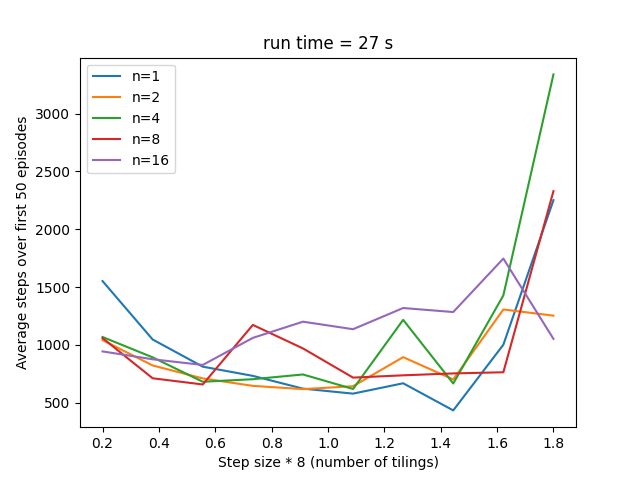
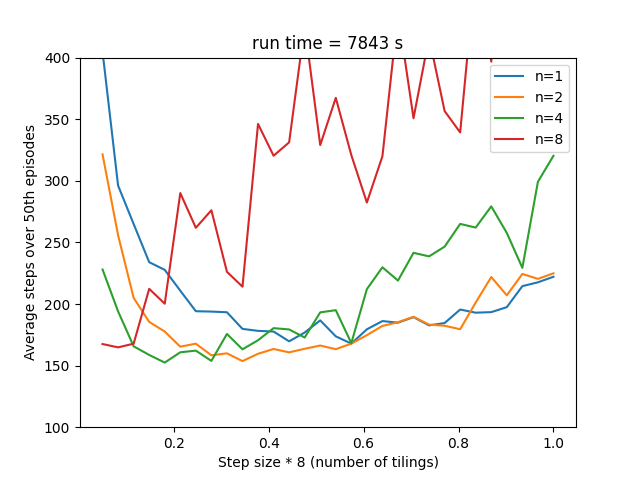
n-step Sarsa with tiling

diff --git a/Part II/CH10/Mountian_Car_Sarsa.py b/Part II/CH10/Mountian_Car_Sarsa.py
@@ -56,6 +56,7 @@ class MountainCar:
     def reset(self):
         """Reset/Set class parameters"""
         self.weight = np.zeros(self.max_size)
+        self.iht = IHT(self.max_size)
 
     def start_new_episode(self):
         """Set class ready for a new episode"""
@@ -153,8 +154,8 @@ class MountainCar:
             div = n + 1
             state_pos = [self.pos] * div
             state_vel = [self.vel] * div
-            actions = [0] * (n + 1)
-            rewards = [0] * (n + 1)
+            actions = [0] * div
+            rewards = [0] * div
             while True:
                 if t < terminal:
                     count += 1
@@ -241,10 +242,10 @@ class MountainCar:
 
     def figure_10_3(self):
         start_time = time.time()
-        self.max_episodes = 500
-        repeat = 100
-        step_sizes = [0.3, 0.5]
-        steps = [1, 8]
+        self.max_episodes = 300
+        repeat = 10
+        step_sizes = [0.5, 0.2, 0.05]
+        steps = [1, 8, 8]
         step_number = np.zeros((len(step_sizes), self.max_episodes))
         for _ in trange(repeat):
             for i, step_size in enumerate(step_sizes):
@@ -268,25 +269,26 @@ class MountainCar:
 
     def figure_10_4(self):
         start_time = time.time()
-        self.max_episodes = 5
-        repeat = 1
-        steps = np.power(2, np.arange(0, 5))
-        time_steps = np.linspace(0.2, 1.8, 10)
+        self.max_episodes = 50
+        repeat = 20
+        steps = np.power(2, np.arange(0, 4))
+        time_steps = np.linspace(0.05, 1, 30)
         runs = np.zeros((len(steps), len(time_steps)))
         plt.figure()
-        for _ in range(repeat):
+        for _ in trange(repeat):
             for i in range(len(steps)):
                 step = steps[i]
-                for j in trange(len(time_steps)):
+                for j in range(len(time_steps)):
                     self.step_size = time_steps[j] / self.n_tilings
-                    runs[i, j] += np.mean(self.n_step_sarsa(step)[1])
+                    runs[i, j] += self.n_step_sarsa(step)[1][-1]
         runs /= repeat
 
         for i, step in enumerate(steps):
             plt.plot(time_steps, runs[i, :], label='n=' + str(step))
 
         plt.xlabel('Step size * 8 (number of tilings)')
-        plt.ylabel('Average steps over first 50 episodes')
+        plt.ylabel('Average steps over 50th episodes')
+        plt.ylim(100, 400)
         plt.title(f'run time = {int(time.time() - start_time)} s')
         plt.legend()
 
